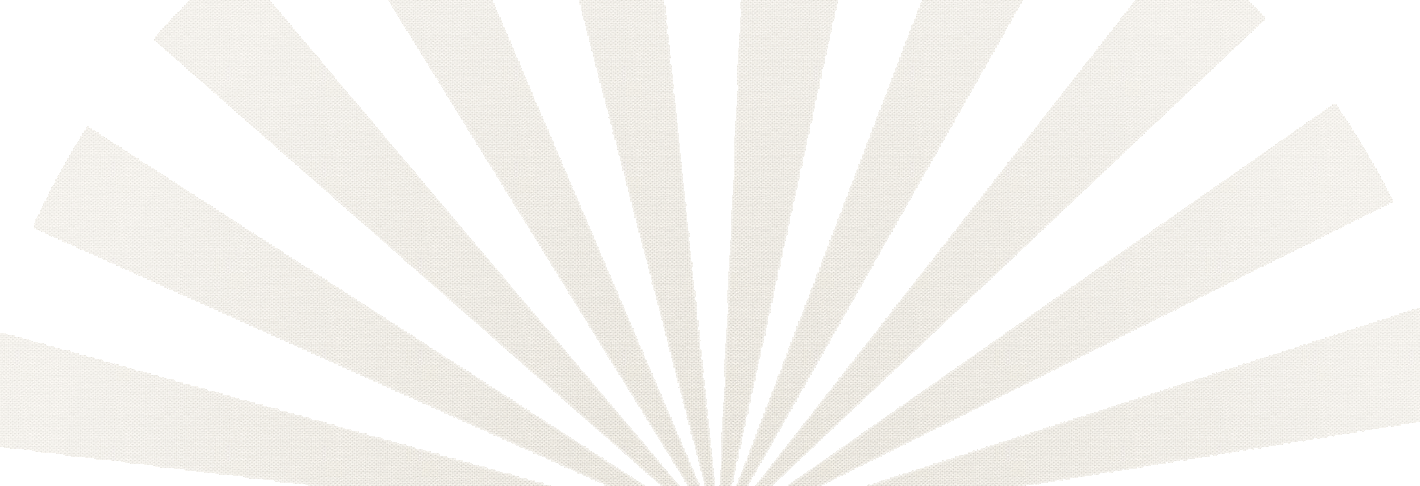
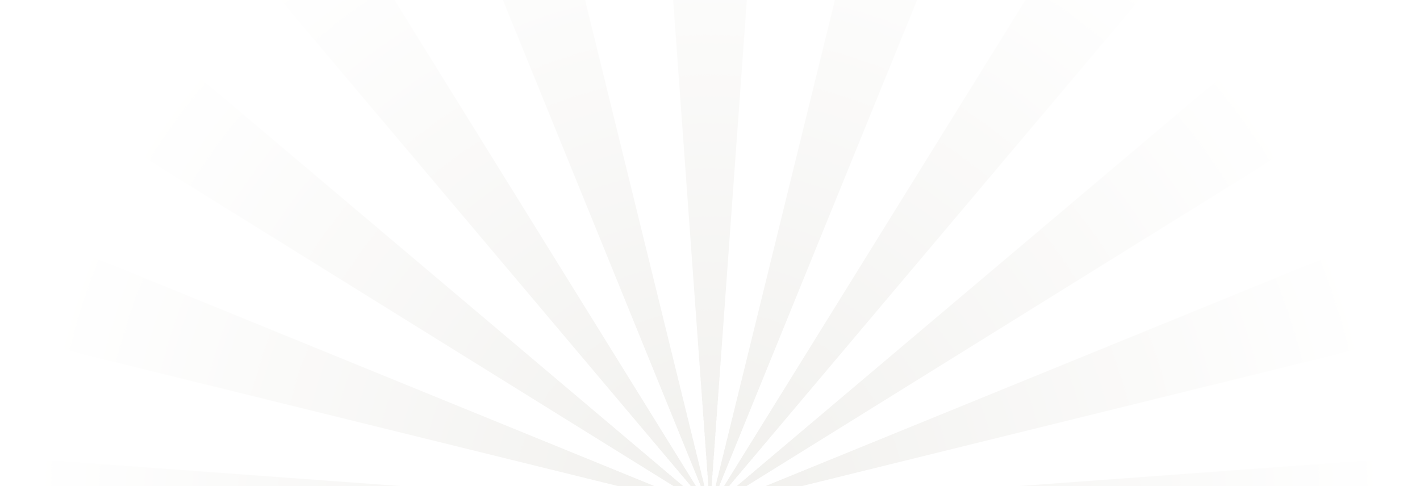
Make starbust BG use reponsive images

Changed region(s): [[0.0, 0.0, 0.9606, 1.0], [0.6197, 0.6481, 1.0, 1.0]]

diff --git a/_includes/header.html b/_includes/header.html
@@ -1,7 +1,5 @@
 <body class="monokai">
 
-    <div id="body-bg"></div>
-
     <noscript>
         <div id="no-js-container">
             <p id="no-js">To get the most out of this website, we recommend you <a href="http://enable-javascript.com/" target="_blank">enable Javascript.</a></p>
@@ -17,23 +15,34 @@
     </div>
     <p id="ie6-title">Kabu Creative</p>
 
-    <div id="background"> <!-- This is closed in footer.html -->
-        <header>
-            <div id="mobile-menu-bar" class="header-wrapper" itemscope itemtype="http://schema.org/Organization">
-                <a itemprop="url" href="http://www.kabucreative.com.au">
-                    <img src="/assets/img/kabu-logo.png" id="logo" alt="Kabu Creative">
-                </a>
-                <a href="/" id="mobile-logo">
-                    <img itemprop="logo" src="/assets/img/kabu-logo-small.svg" alt="Kabu Creative">
-                </a>
-                <a href="/" class="mobile-menu toggle-nav"><i class="fa fa-bars"></i></a>
-                <img src="/assets/img/menu-arrow.svg" alt="Arrow pointing at menu" class="menu-arrow"/>
-                <span class="clear"></span>
+    <div id="starburst">
+        <picture>
+            <!--[if IE 9]><video style="display: none;"><![endif]-->
+            <source srcset="/assets/img/starburst.png" media="(min-width: 961px)">
+            <source srcset="/assets/img/starburst-960.png" media="(min-width: 700px)">
+            <source srcset="/assets/img/starburst-700.png" media="(min-width: 400px)">
+            <source srcset="/assets/img/starburst-400.png" media="(max-width: 400px)">
+            <!--[if IE 9]></video><![endif]-->
+            <img srcset="/assets/img/starburst.png" alt="background image">
+        </picture>
+    </div>
+
+    <header>
+        <div id="mobile-menu-bar" class="header-wrapper" itemscope itemtype="http://schema.org/Organization">
+            <a itemprop="url" href="http://www.kabucreative.com.au">
+                <img src="/assets/img/kabu-logo.png" id="logo" alt="Kabu Creative">
+            </a>
+            <a href="/" id="mobile-logo">
+                <img itemprop="logo" src="/assets/img/kabu-logo-small.svg" alt="Kabu Creative">
+            </a>
+            <a href="/" class="mobile-menu toggle-nav"><i class="fa fa-bars"></i></a>
+            <img src="/assets/img/menu-arrow.svg" alt="Arrow pointing at menu" class="menu-arrow"/>
+            <span class="clear"></span>
+        </div>
+        <div id="navigation-bar">
+            {% include nav.html %}
+            <div class="header-wrapper">
+                <img src="/assets/img/peek-kabu.png" alt="peek-kabu!" id="peek-kabu"/>
             </div>
-            <div id="navigation-bar">
-                {% include nav.html %}
-                <div class="header-wrapper">
-                    <img src="/assets/img/peek-kabu.png" alt="peek-kabu!" id="peek-kabu"/>
-                </div>
-            </div>
-        </header>
+        </div>
+    </header>

diff --git a/_includes/footer.html b/_includes/footer.html
@@ -1,30 +1,29 @@
-    <footer>
-        <div id="footer-content">
-            <div class="wrapper">
-                <!-- Twitter goes here -->
-                <div id="social-media-buttons">
-                    <a href="http://facebook.com/kabucreative" class="flt-left" data-network="Facebook" id="facebook-icon" target="_blank"></a>
-                    <a href="http://twitter.com/kabucreative" class="flt-left w-gutter" data-network="Twitter" id="twitter-icon" target="_blank"></a>
-                    <a href="http://linkedin.com/company/2795276" class="flt-left w-gutter" data-network="LinkedIn" id="l-in-icon" target="_blank"></a>
-                    <div class="clear"></div>
-                </div>
-            </div>
-            <div class="social-media-wrapper"><span class="arrow-top"></span><span class="visit-us">Visit us on social media platforms!</span></div>
-
-            <div class="footer-bottom-menu">
-                <div class="wrapper">
-                    <div id="sub-menu">
-                        <span>
-                            <a href="/privacy-policy/">Privacy Policy</a>
-                        </span>
-                        <span class="powered">
-                            <a href="mailto:careers@kabucreative.com.au" class="careers">careers@kabucreative.com.au</a>
-                        </span>
-                    </div>
-                    <div class="clear"></div>
-                </div>
+<footer>
+    <div id="footer-content">
+        <div class="wrapper">
+            <!-- Twitter goes here -->
+            <div id="social-media-buttons">
+                <a href="http://facebook.com/kabucreative" class="flt-left" data-network="Facebook" id="facebook-icon" target="_blank"></a>
+                <a href="http://twitter.com/kabucreative" class="flt-left w-gutter" data-network="Twitter" id="twitter-icon" target="_blank"></a>
+                <a href="http://linkedin.com/company/2795276" class="flt-left w-gutter" data-network="LinkedIn" id="l-in-icon" target="_blank"></a>
+                <div class="clear"></div>
             </div>
         </div>
-    </footer>
-</div><!-- /background. This is opened in header.html -->
+        <div class="social-media-wrapper"><span class="arrow-top"></span><span class="visit-us">Visit us on social media platforms!</span></div>
+
+        <div class="footer-bottom-menu">
+            <div class="wrapper">
+                <div id="sub-menu">
+                    <span>
+                        <a href="/privacy-policy/">Privacy Policy</a>
+                    </span>
+                    <span class="powered">
+                        <a href="mailto:careers@kabucreative.com.au" class="careers">careers@kabucreative.com.au</a>
+                    </span>
+                </div>
+                <div class="clear"></div>
+            </div>
+        </div>
+    </div>
+</footer>
 

diff --git a/assets/js/responsive.js b/assets/js/responsive.js
@@ -59,15 +59,19 @@ $(document).ready(function() {
 
     // Resize banner container
     var bannerContainer = $('.home-banner-space');
+    var starburst = $('#starburst');
     var bannerHeight, menuHeight;
 
     function setContainerHeight(){
         if ($(window).width() < 960) {
             bannerHeight = $('#banner-home').height()
             menuHeight = $('#mobile-menu-bar').height()
-            bannerContainer.height(bannerHeight * 1.05 + menuHeight);
+            calculatedHeight = bannerHeight * 1.05 + menuHeight;
+            bannerContainer.height(calculatedHeight);
+            starburst.height($('#banner-space').height());
         } else {
             bannerContainer.height(480);
+            starburst.height(480);
         }
     }
 

diff --git a/assets/css/_sass/_site_structure.scss b/assets/css/_sass/_site_structure.scss
@@ -5,22 +5,23 @@ body {
     font-family: 'Lato', sans-serif;
     font-size:14px;
     color:#747474;
-}
-
-#body-bg {
-    position:absolute;
-    height:600px;
-    width:100%;
     background: #fffdf9 url('../../img/textured-bg.png') repeat;
-    z-index:-1000;
 }
 
-#background {
+#starburst {
     position:absolute;
     width:100%;
-    height:100%;
-    background: url('../../img/starburst.png') no-repeat 50% 0;
+    height: 480px;
+    text-align: center;
     z-index:-3;
+
+    img {
+        position: absolute;
+        width: 100%;
+        height: auto;
+        bottom: 0;
+        left: 0;
+    }
 }
 
 .wrapper {
